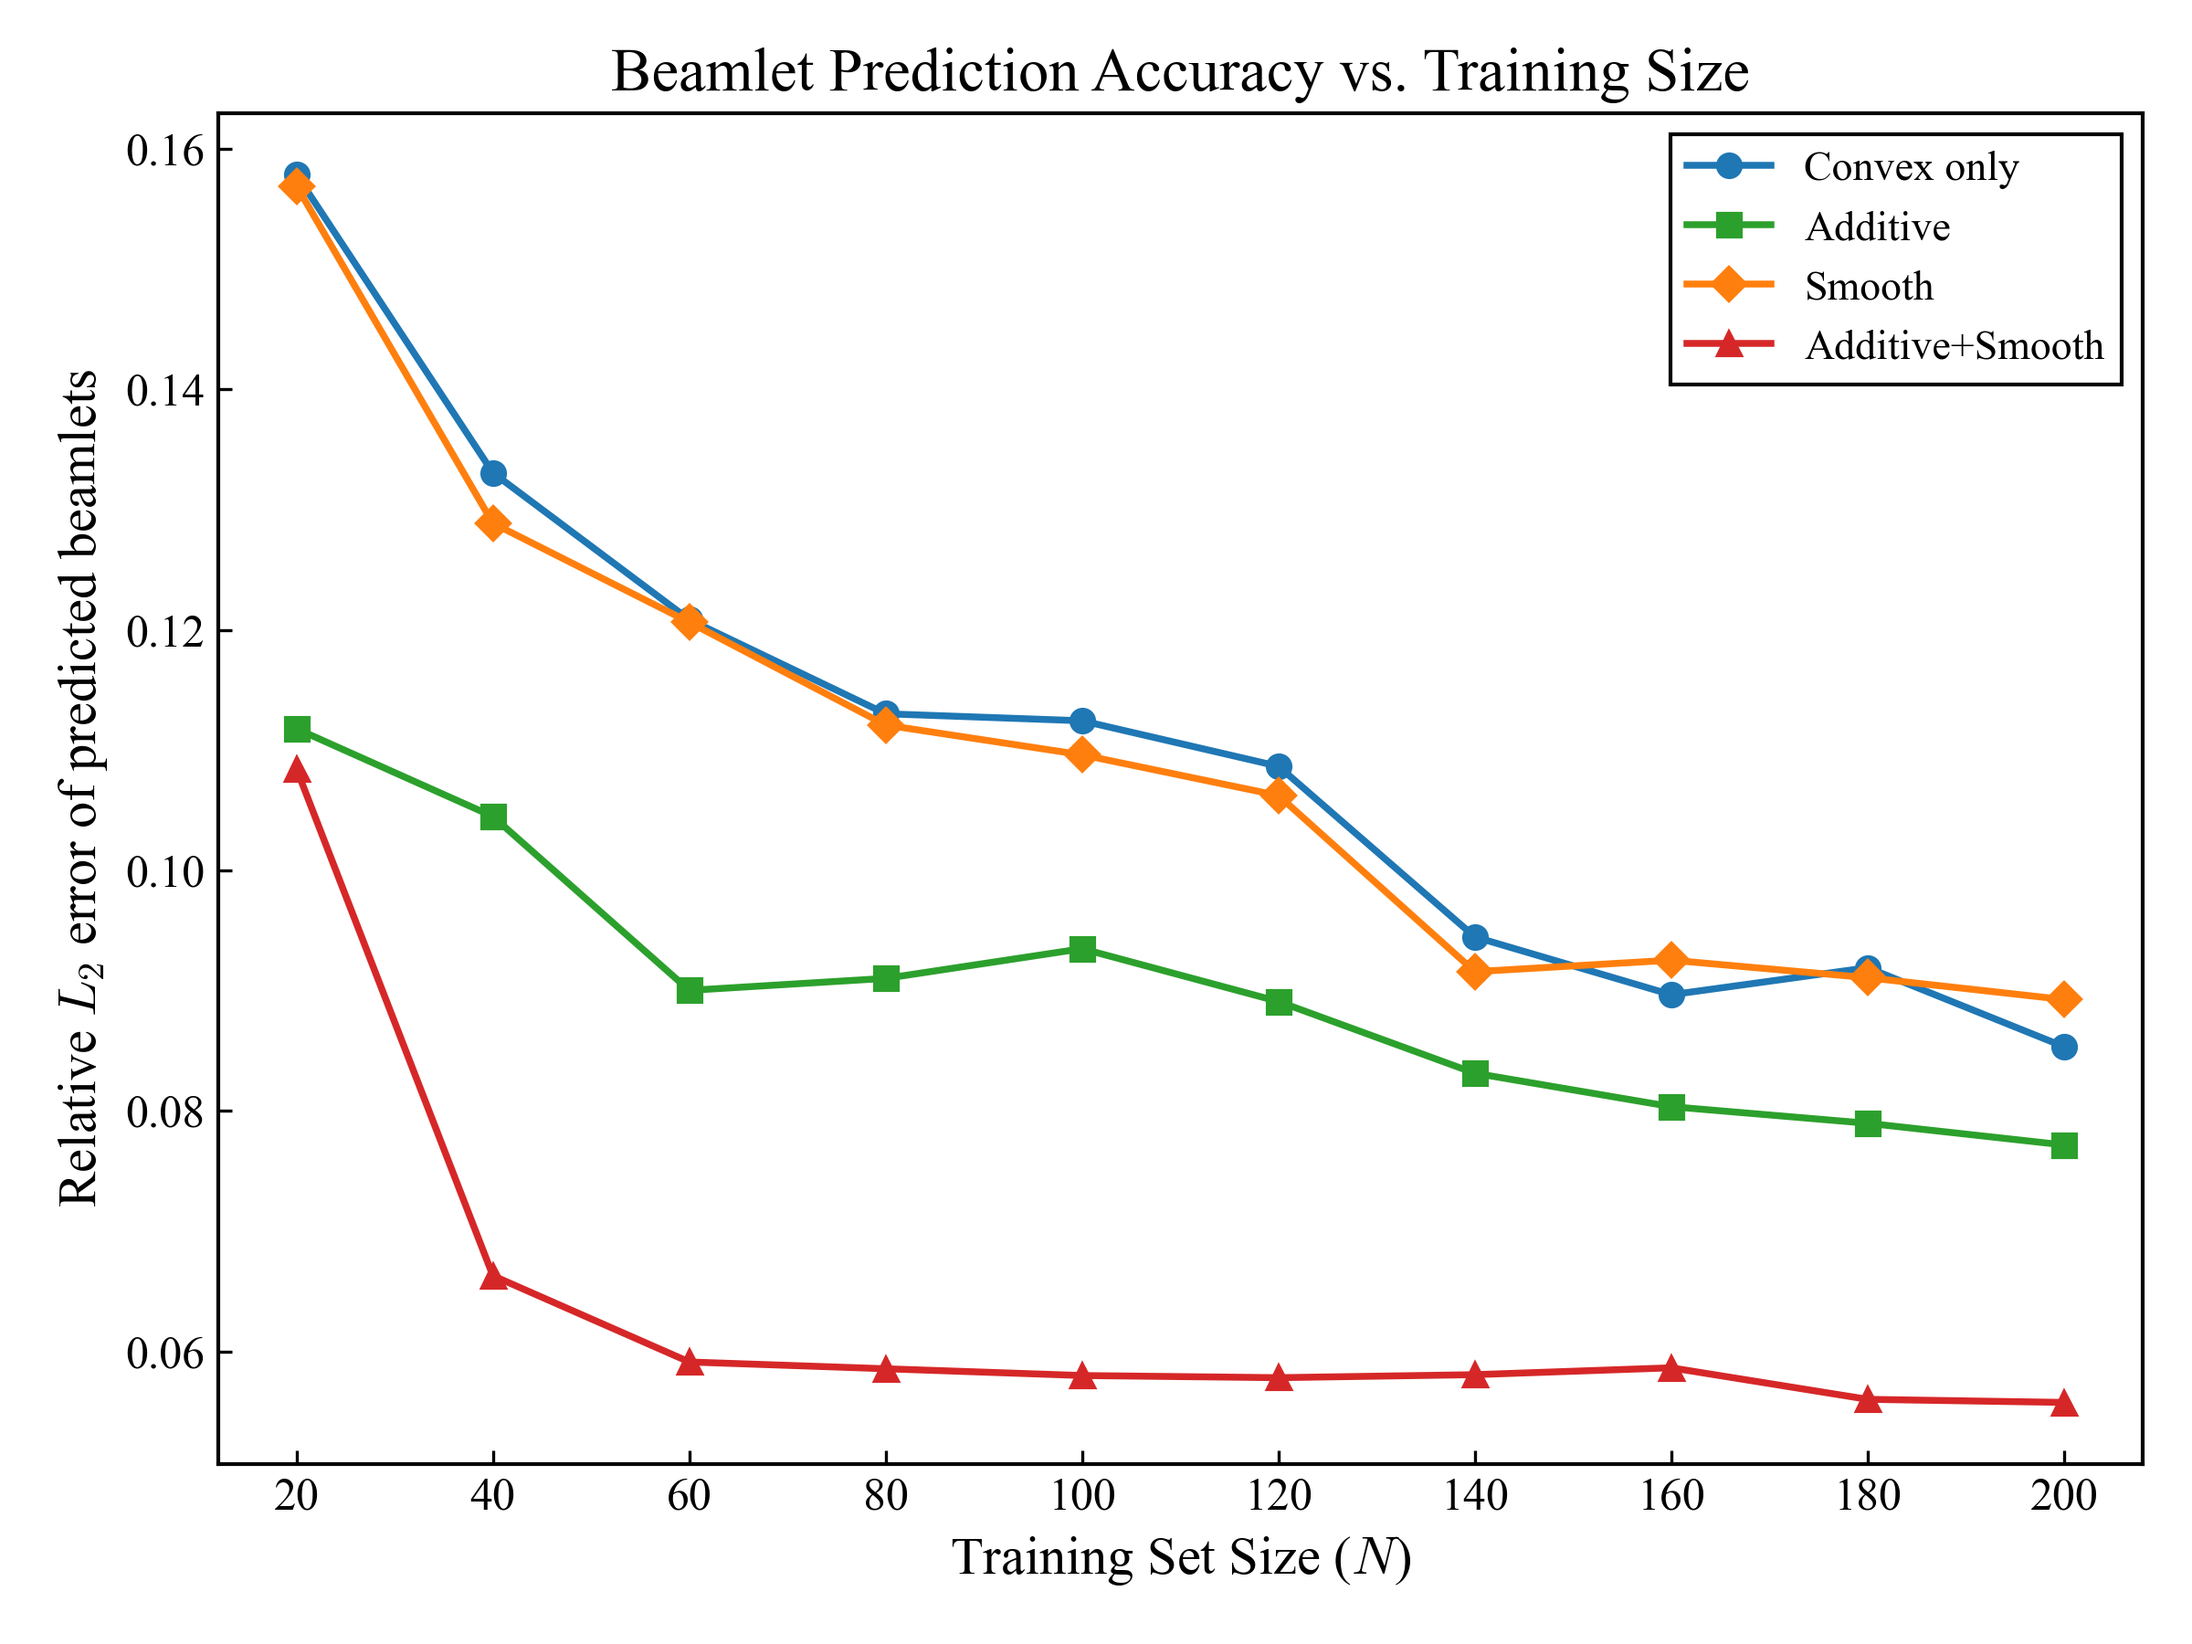
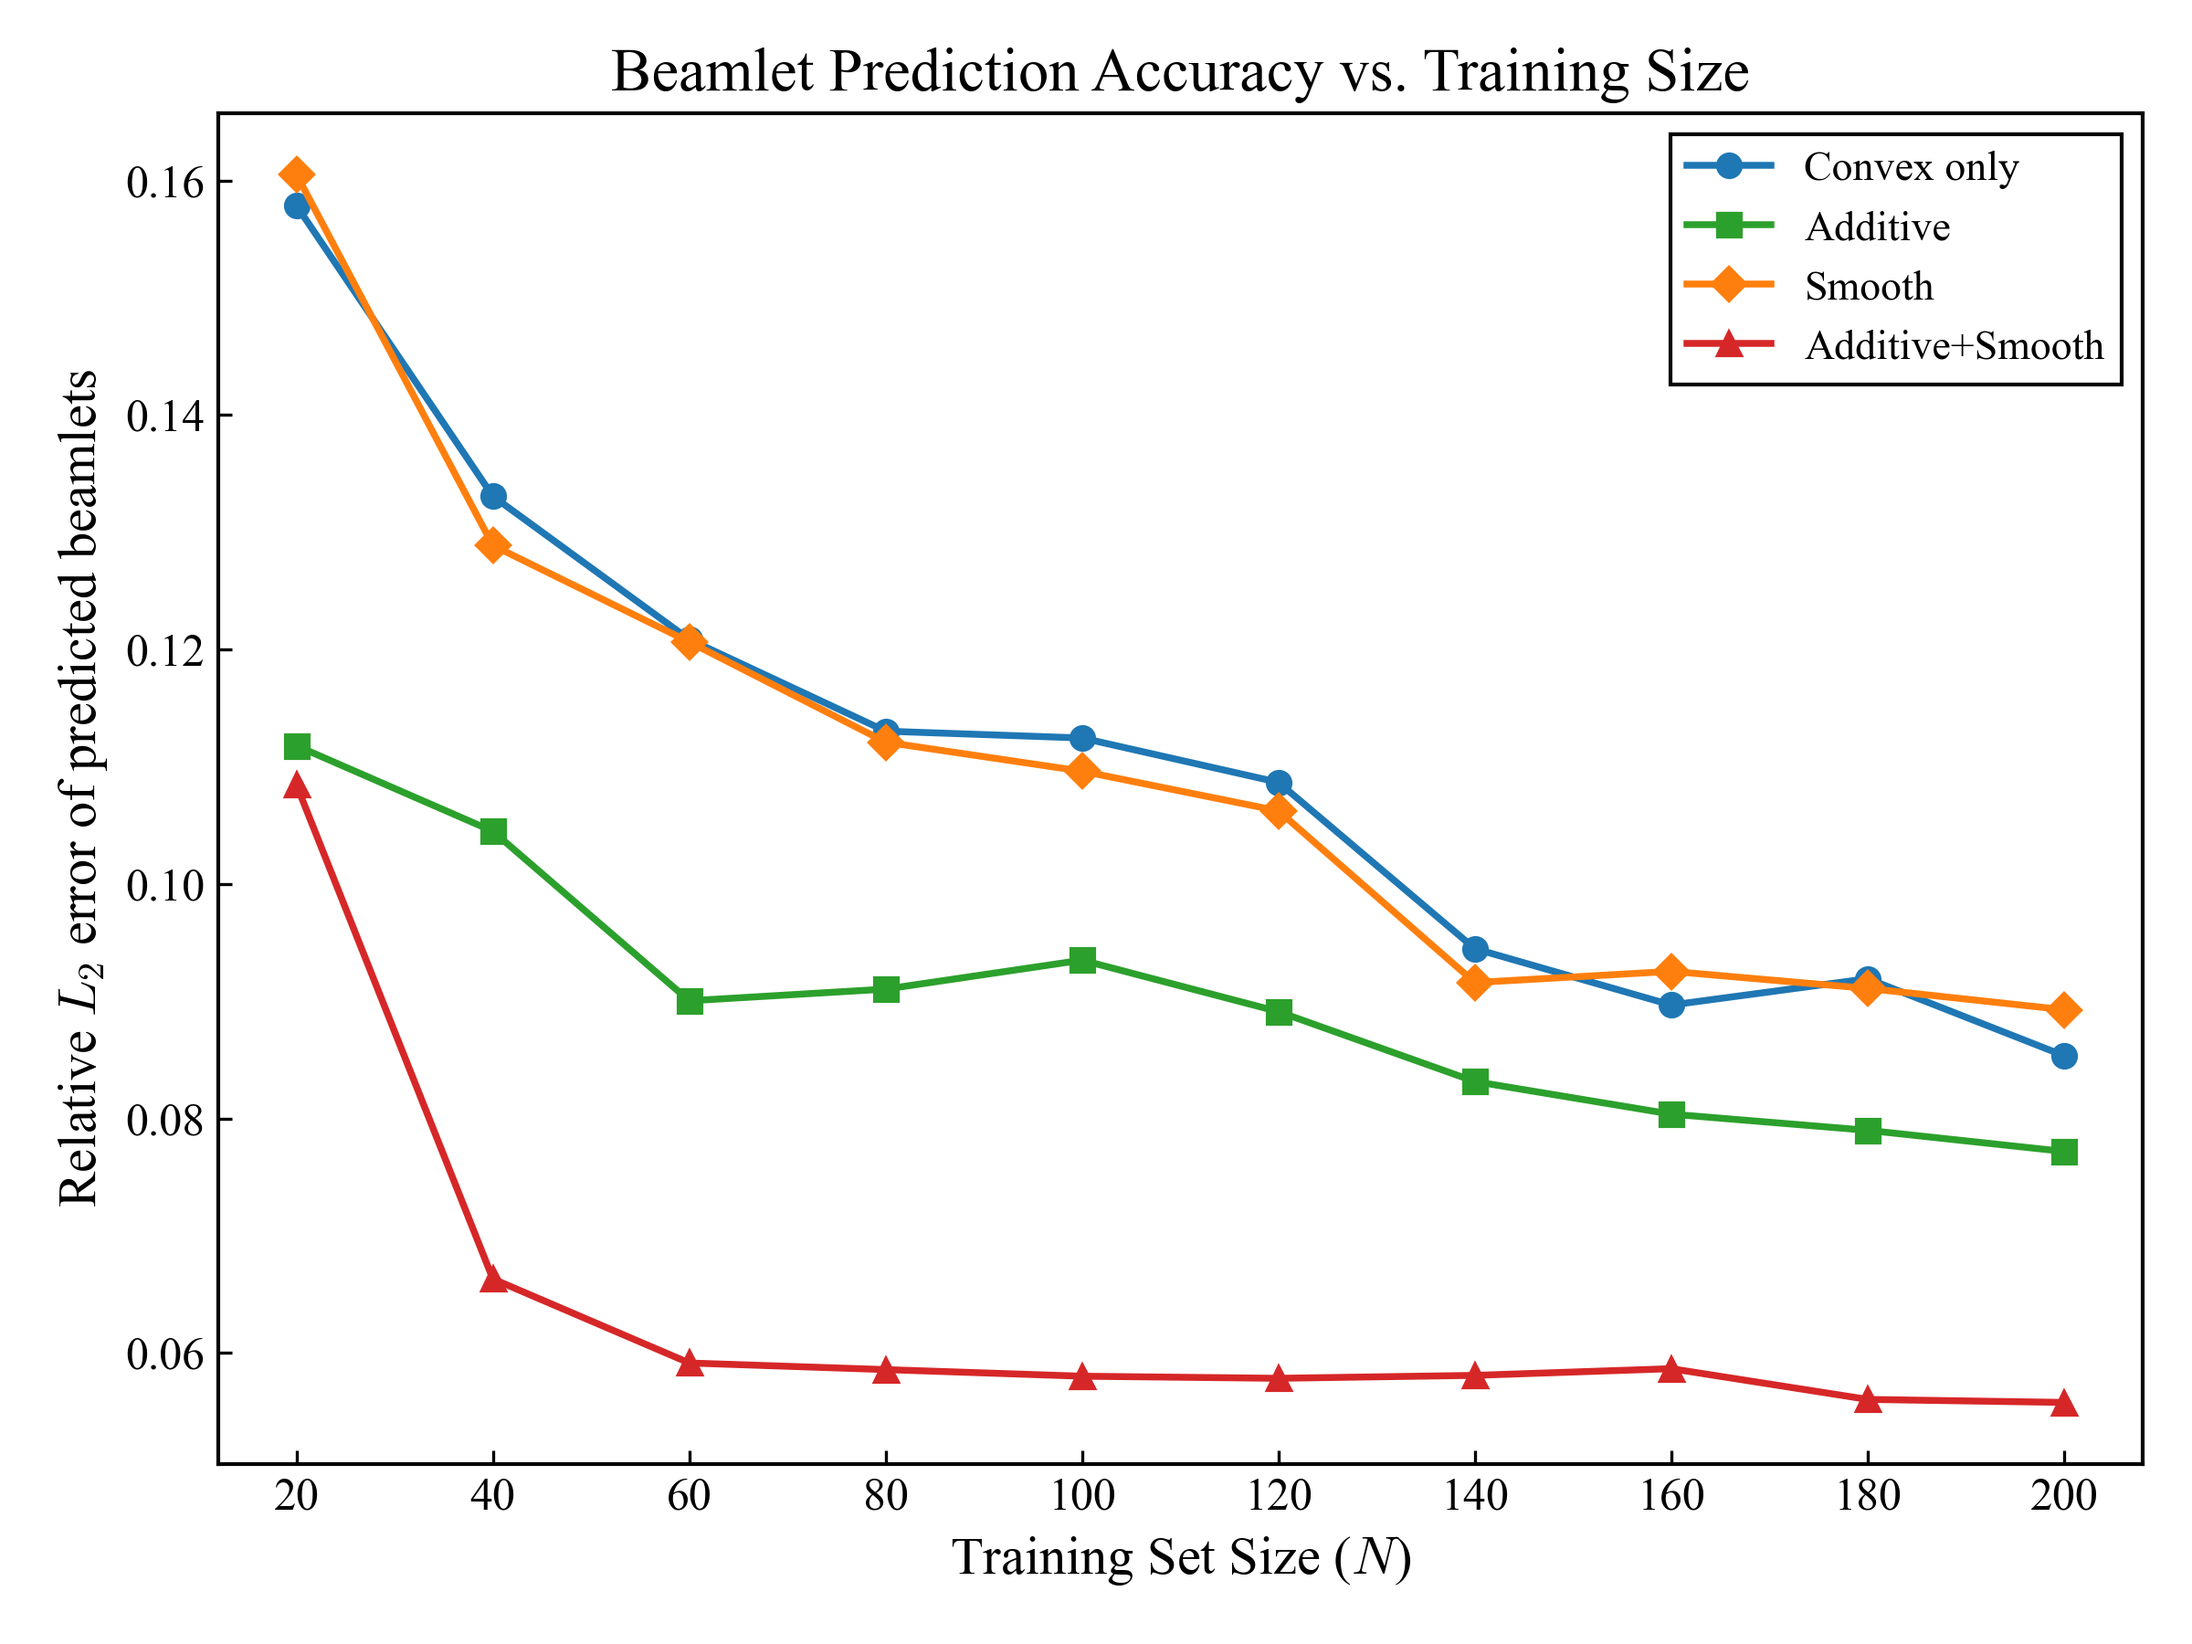
Consumer: a failed solve fails its cell; Figure 4 uses the procedure's own N=20 Smooth point
- consumer_inverse_optimization.py [W8]: remove the three substitute paths (the LP-class
  epsilon sweep, the Model 1 solution returned when Model 3 fails, and the beta-bracket
  fallback). Model 1 and Model 3 must solve, or the cell fails.
- One shipped cell changes: kicks3 / Additive / not-perturbed / N=120 / rep 8, where Model 3
  failed and the old code returned the Model 1 solution. It is now absent from the checkpoint
  (3,198 of 3,200 cells). All 1,600 Additive and Convex-only cells were re-solved with this
  code; the other 1,599 reproduce the checkpoint exactly. The kicks3 not-perturbed tables and
  Figure 2 panel are rebuilt; the other panels are unchanged.
- healthcare_synthetic: Figure 4's Smooth N=20 point is the procedure's own result
  (Rel-L2 0.1605 at beta* = 42.036) instead of a refit at a hand-set beta; config note on the
  Convex-only fit at beta = 1e5.
- READMEs updated.

diff --git a/consumer_choice/consumer_inverse_optimization.py b/consumer_choice/consumer_inverse_optimization.py
@@ -435,12 +435,8 @@ class Recovered:
 # Inverse solvers (one per model). Two stages: minimise epsilon, then
 # minimise sum(delta) at the fixed epsilon*. Smooth models add a beta search.
 # ======================================================================
-# On exact (unperturbed) data the epsilon-min problem occasionally fails (the
-# optimum sits on the boundary at epsilon ~ 0). When it does, we fall back to a
-# short sweep of small fixed epsilons -- the true value is ~0 there -- and take
-# the first one that lets Stage 2 solve. The normal path (min-eps succeeds) is
-# tried first, so the recovered objective is unchanged when there is no failure.
-_EPS_FALLBACK = (1e-6, 1e-5, 1e-4, 1e-3, 1e-2)
+# [W8] No substitute values: if Model 1 (minimum epsilon) or Model 3 (selection) does not
+# solve, the cell fails. Model 3 runs once, at epsilon* = epsilon0 + 1e-6 [W4].
 
 
 def _c8_rows(Z, P, beta_inv, eps_expr, delta, delta_g, lamb):
@@ -504,25 +500,20 @@ def solve_convex_only(Z: np.ndarray, P: np.ndarray) -> Recovered:
     d1 = cp.Variable(m)
     l1 = cp.Variable((m, n), nonneg=True)
     eps = cp.Variable(nonneg=True)
-    eps_star = (float(eps.value)
-                if _solve(cp.Problem(cp.Minimize(eps),
-                                     build(d1, l1, eps, CFG.delta_anchor_stage1)))
-                else None)
+    if not _solve(cp.Problem(cp.Minimize(eps), build(d1, l1, eps, CFG.delta_anchor_stage1))):
+        raise RuntimeError("convex-only Model 1 (minimum epsilon) did not solve")   # [W8]
+    eps_star = float(eps.value)
     _log_note(eps0=eps_star)                                    # [W6d] record only
 
-    # Stage 2: minimise sum(delta), trying epsilon* first then the fallback sweep.
-    for eps_try in ([eps_star + 1e-6] if eps_star is not None else []) + list(_EPS_FALLBACK):  # [W4]
-        d2 = cp.Variable(m)
-        l2 = cp.Variable((m, n), nonneg=True)
-        _log("model3", eps=eps_try)                              # [W6d] record only: eps in this program
-        if _solve(cp.Problem(cp.Minimize(cp.sum(d2)),  # [W2] conservative: min sum U
-                             build(d2, l2, eps_try, CFG.delta_anchor_stage2))) \
-                and d2.value is not None:
-            return Recovered(d2.value, l2.value, None, eps_try)
-    if eps_star is not None and d1.value is not None:
-        _log("fallback", path="Model 3 failed at every eps; Stage-1 solution returned")   # [W6d]
-        return Recovered(d1.value, l1.value, None, eps_star)
-    raise RuntimeError("convex-only solve failed (Stage-1 and epsilon sweep)")
+    # Stage 2: minimise sum(delta) at epsilon* = epsilon0 + 1e-6 [W4].
+    eps_try = eps_star + 1e-6
+    d2 = cp.Variable(m)
+    l2 = cp.Variable((m, n), nonneg=True)
+    _log("model3", eps=eps_try)                                  # [W6d] record only: eps in this program
+    if _solve(cp.Problem(cp.Minimize(cp.sum(d2)),  # [W2] conservative: min sum U
+                         build(d2, l2, eps_try, CFG.delta_anchor_stage2))) and d2.value is not None:
+        return Recovered(d2.value, l2.value, None, eps_try)
+    raise RuntimeError("convex-only Model 3 did not solve")     # [W8]
 
 
 def solve_additive(Z: np.ndarray, P: np.ndarray) -> Recovered:
@@ -546,32 +537,27 @@ def solve_additive(Z: np.ndarray, P: np.ndarray) -> Recovered:
             cons.append(delta[nxt, k] + cp.multiply(lamb[nxt, k], dz) >= delta[cur, k])
         return cons
 
-    # Stage 1: minimise epsilon (ill-conditioned on exact data -> may fail).
+    # Stage 1: minimise epsilon.
     _log("model1")                                              # [W6d] record only
     d1 = cp.Variable((m, n))
     dg1 = cp.Variable(m)
     l1 = cp.Variable((m, n), nonneg=True)
     eps = cp.Variable(nonneg=True)
-    eps_star = (float(eps.value)
-                if _solve(cp.Problem(cp.Minimize(eps),
-                                     build(d1, dg1, l1, eps, CFG.delta_anchor_stage1)))
-                else None)
+    if not _solve(cp.Problem(cp.Minimize(eps), build(d1, dg1, l1, eps, CFG.delta_anchor_stage1))):
+        raise RuntimeError("additive Model 1 (minimum epsilon) did not solve")      # [W8]
+    eps_star = float(eps.value)
     _log_note(eps0=eps_star)                                    # [W6d] record only
 
-    # Stage 2: minimise sum(delta), epsilon* first then the fallback sweep.
-    for eps_try in ([eps_star] if eps_star is not None else []) + list(_EPS_FALLBACK):
-        d2 = cp.Variable((m, n))
-        dg2 = cp.Variable(m)
-        l2 = cp.Variable((m, n), nonneg=True)
-        _log("model3", eps=eps_try + 1e-6)                       # [W6d] record only: eps in this program
-        if _solve(cp.Problem(cp.Minimize(cp.sum(dg2)),  # [W2] conservative: min sum U
-                             build(d2, dg2, l2, eps_try + 1e-6, CFG.delta_anchor_stage2))) \
-                and dg2.value is not None:
-            return Recovered(dg2.value, l2.value, None, eps_try, delta_comp=d2.value)  # [W1]
-    if eps_star is not None and dg1.value is not None:
-        _log("fallback", path="Model 3 failed at every eps; Stage-1 solution returned")   # [W6d]
-        return Recovered(dg1.value, l1.value, None, eps_star, delta_comp=d1.value)  # [W1]
-    raise RuntimeError("additive solve failed (Stage-1 and epsilon sweep)")
+    # Stage 2: minimise sum(delta) at epsilon* = epsilon0 + 1e-6 [W4].
+    d2 = cp.Variable((m, n))
+    dg2 = cp.Variable(m)
+    l2 = cp.Variable((m, n), nonneg=True)
+    _log("model3", eps=eps_star + 1e-6)                          # [W6d] record only: eps in this program
+    if _solve(cp.Problem(cp.Minimize(cp.sum(dg2)),  # [W2] conservative: min sum U
+                         build(d2, dg2, l2, eps_star + 1e-6, CFG.delta_anchor_stage2))) \
+            and dg2.value is not None:
+        return Recovered(dg2.value, l2.value, None, eps_star, delta_comp=d2.value)  # [W1]
+    raise RuntimeError("additive Model 3 did not solve")        # [W8]
 
 
 def _smooth_constraints(Z, P, beta_inv, eps_expr, delta, lamb, lam_opt):
@@ -676,8 +662,7 @@ def _beta_bisection(Z, P, eps_val, additive: bool, gap_tol: float) -> float:
             if _feasible_at_beta(Z, P, eps_val, high, additive):
                 break
         else:
-            _log("fallback", path="no beta bracket up to 32 * beta_init; beta0 = beta_init")  # [W6d]
-            return CFG.beta_init
+            raise RuntimeError("Model 2: no feasible beta up to 32 * beta_init")   # [W8]
     low = 0.0
     for _ in range(15):
         if high - low < gap_tol:

diff --git a/healthcare_synthetic/paper_run/figure_scripts/make_combined_mape.py b/healthcare_synthetic/paper_run/figure_scripts/make_combined_mape.py
@@ -1,10 +1,9 @@
 """Regenerate Fig 4 (combined beamlet-prediction error vs N) capped at N=200.
 
 Data source: the CSVs extracted from the canonical additive-smooth repo at commit c589d16
-("Switch prediction metric to Rel-L2") and frozen under figures/fig4_data/, with one change
-(2026-09-12): the Smooth (nonadditive) N=20 row is the refit at the bisection beta 0.166171875
-(142 copy/results_high_std_non_add_smooth_N20_bisection_refit). The saved beta*=42.036 for that
-point came from MOSEK exceptions counted as infeasible. Only the N=300,400 tail is dropped (the accuracy plateau sets in
+("Switch prediction metric to Rel-L2") and frozen under figures/fig4_data/. Every point is the
+procedure's own result (the Smooth N=20 point uses the bisection's beta* = 42.036 as returned).
+Only the N=300,400 tail is dropped (the accuracy plateau sets in
 by ~N=60, so the 200-400 stretch added width without information -- see Fig 3, now at
 N=20,40,60). Convex-only = the approximate (max-forced) evaluator, matching the paper.
 """

diff --git a/healthcare_synthetic/config.py b/healthcare_synthetic/config.py
@@ -126,7 +126,10 @@ RECOVERY = {
         "BISECT_GAP_TOL": 0.2, "BISECT_BETA_LOW": 0.01, "BISECT_BETA_INIT": 20.0,
         "SOLVER": "MOSEK", "MOSEK_TOL": 1e-5,
     },
-    # Non-additive non-smooth: 2-stage with forced large beta, MOSEK (APPROXIMATION of convex-only).
+    # Non-additive non-smooth = the Convex-only class of Figure 4. It is fitted with the same conic program and
+    # solver as the smooth classes at a fixed large beta = 1e5, an approximation of beta = infinity that keeps the
+    # solver and the method the same across classes (the Additive class is the exact beta = infinity LP and predicts
+    # with its tangent lines). 2-stage, MOSEK.
     "nonadd_nonsmooth": {
         "U_MAX": 10000.0, "BETA_NON_SMOOTH": 100000.0, "EPSILON_TOL": 1e-6,
         "SOLVER": "MOSEK", "MOSEK_TOL_S1": 1e-6, "MOSEK_TOL_S2": 1e-5,

diff --git a/consumer_choice/make_paper_panels.py b/consumer_choice/make_paper_panels.py
@@ -6,7 +6,7 @@ consumer_inverse_optimization.py, copied verbatim except for two deliberate diff
     production plot_panel draws +-1 SE), and
   * the standard deviation uses ddof=1 (sample SE), not numpy's default ddof=0.
 Aggregation is nanmean/nanstd with a per-point replication count, so cells missing from the
-checkpoint (the 7 deterministic Stage-3 failures) simply reduce n at that point.
+checkpoint (the two fits that did not solve) simply reduce n at that point.
 
 usage: python make_paper_panels_2se.py RES_DIR OUT_DIR [--exclude PATH]
   --exclude  a text file of cells to drop, one per line: utility,regime,size,rep,model

diff --git a/consumer_choice/README.md b/consumer_choice/README.md
@@ -65,10 +65,12 @@ and can be re-entered; `_cells_log.jsonl` records every solver call of every cel
 
 ## What is shipped in `results/`
 
-The complete run: 3,199 of 3,200 cells (2 utilities × 2 regimes × 4 classes × 10 sizes ×
-20 replications). One Additive+Smooth cell (`smooth`, not-perturbed, N = 200, rep 16) is absent:
-its minimum-ε solve (Model 1) returned no optimal solution from MOSEK at 1e-6 or at the 1e-5
-re-solve, and the cell raises rather than continuing with a substitute ε. Twelve Additive+Smooth
+The complete run: 3,198 of 3,200 cells (2 utilities × 2 regimes × 4 classes × 10 sizes ×
+20 replications). Two cells are absent because a solve failed, and a failed solve fails its cell
+rather than continuing with a substitute value: one Additive+Smooth cell (`smooth`, not-perturbed,
+N = 200, rep 16), whose minimum-ε solve (Model 1) returned no optimal solution from MOSEK at 1e-6 or
+at the 1e-5 re-solve, and one Additive cell (`kicks3`, not-perturbed, N = 120, rep 8), whose
+selection solve (Model 3) did not solve. Twelve Additive+Smooth
 cells were solved again after that change; `_cells_log.jsonl` holds the first attempt of each and
 appends the second.
 

diff --git a/README.md b/README.md
@@ -10,7 +10,7 @@ The repository is organized by the paper's three experiments (Section 4).
 
 | Directory | Paper | What is here |
 | --- | --- | --- |
-| [`consumer_choice/`](consumer_choice/) | §4.1, Figures 1–2 | code, data caches, the full replicated run (3,193 cells) and the figures built from it |
+| [`consumer_choice/`](consumer_choice/) | §4.1, Figures 1–2 | code, data caches, the full replicated run (3,198 cells) and the figures built from it |
 | [`healthcare_synthetic/`](healthcare_synthetic/) | §4.2, Figures 3, 4, 7 | the notebook that produced the paper's results, its recovered parameters, and the figure scripts; plus a scripted re-implementation |
 | [`portpy_clinical/`](portpy_clinical/) | §4.3, Figures 5–6, Table 3 | code, the scripts that produced the published runs, the recovered parameters (N = 3–6) and the prediction outputs |
 
